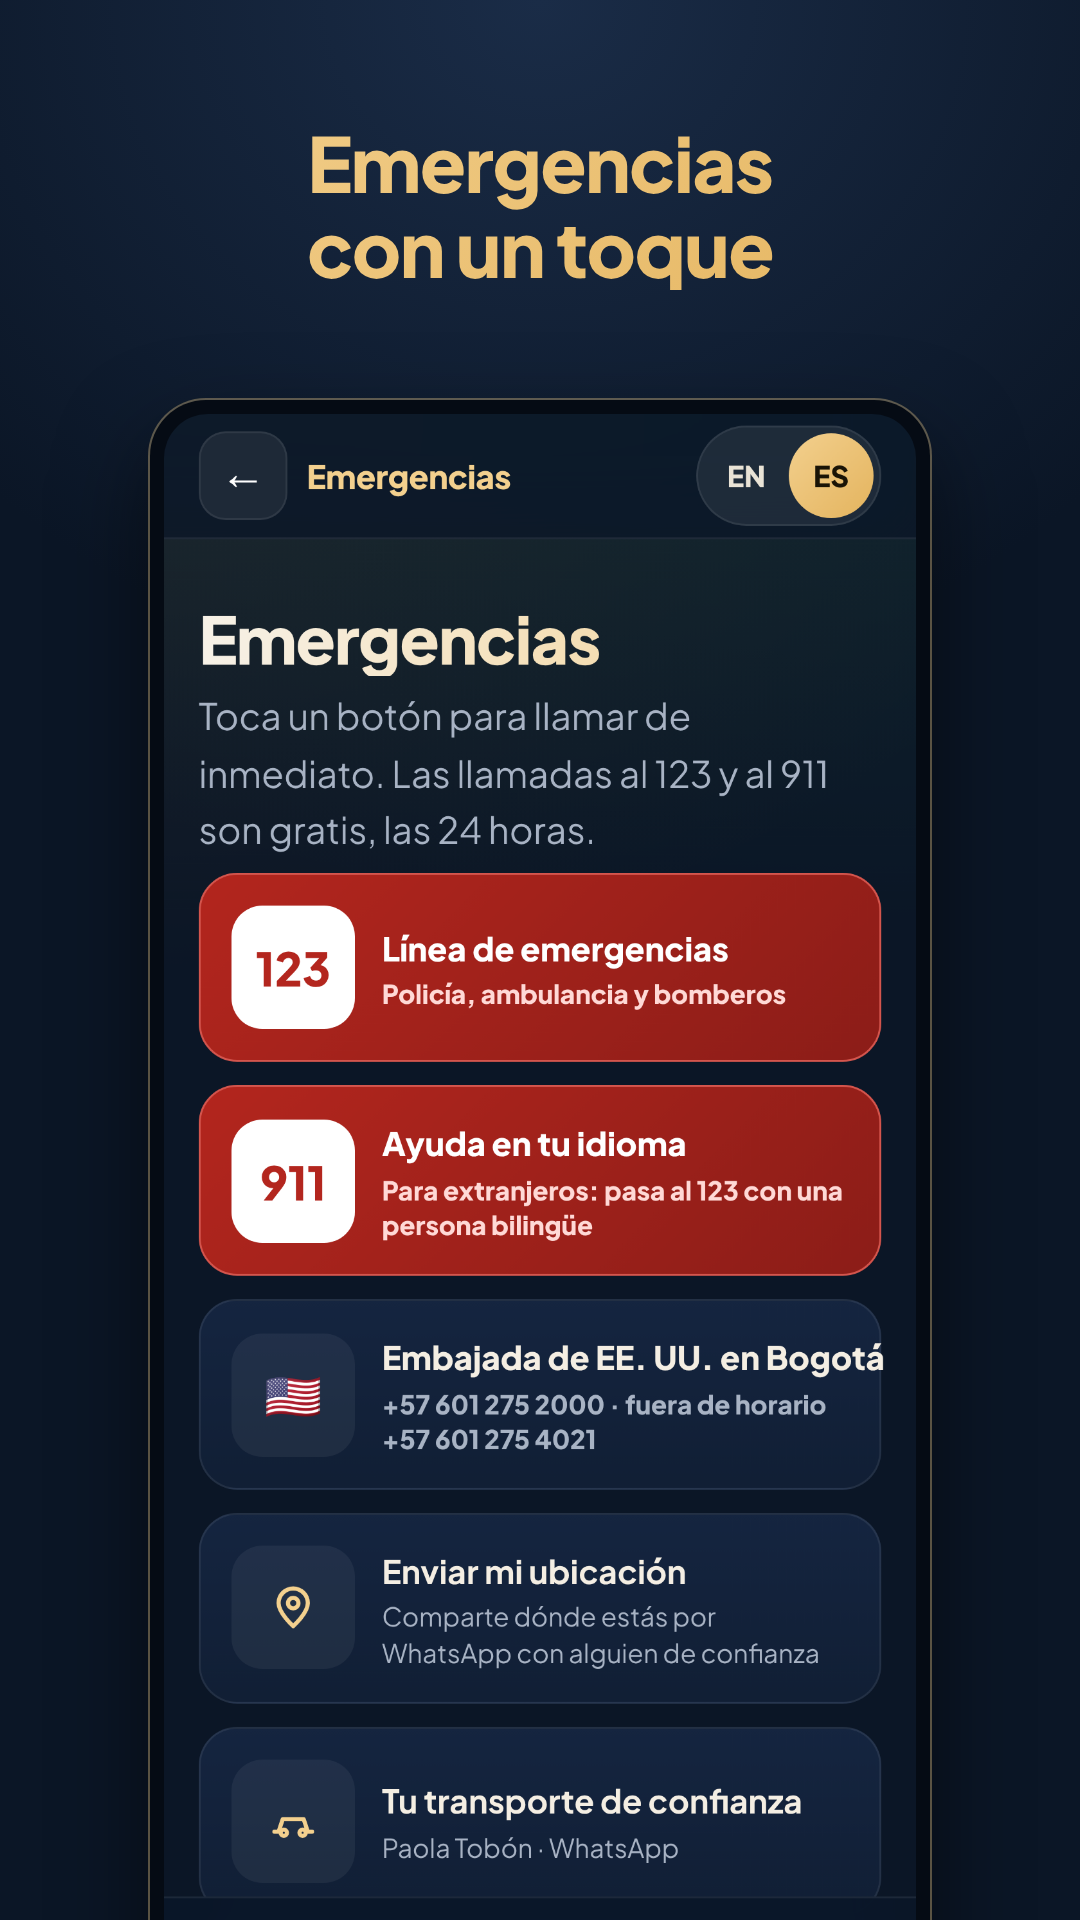
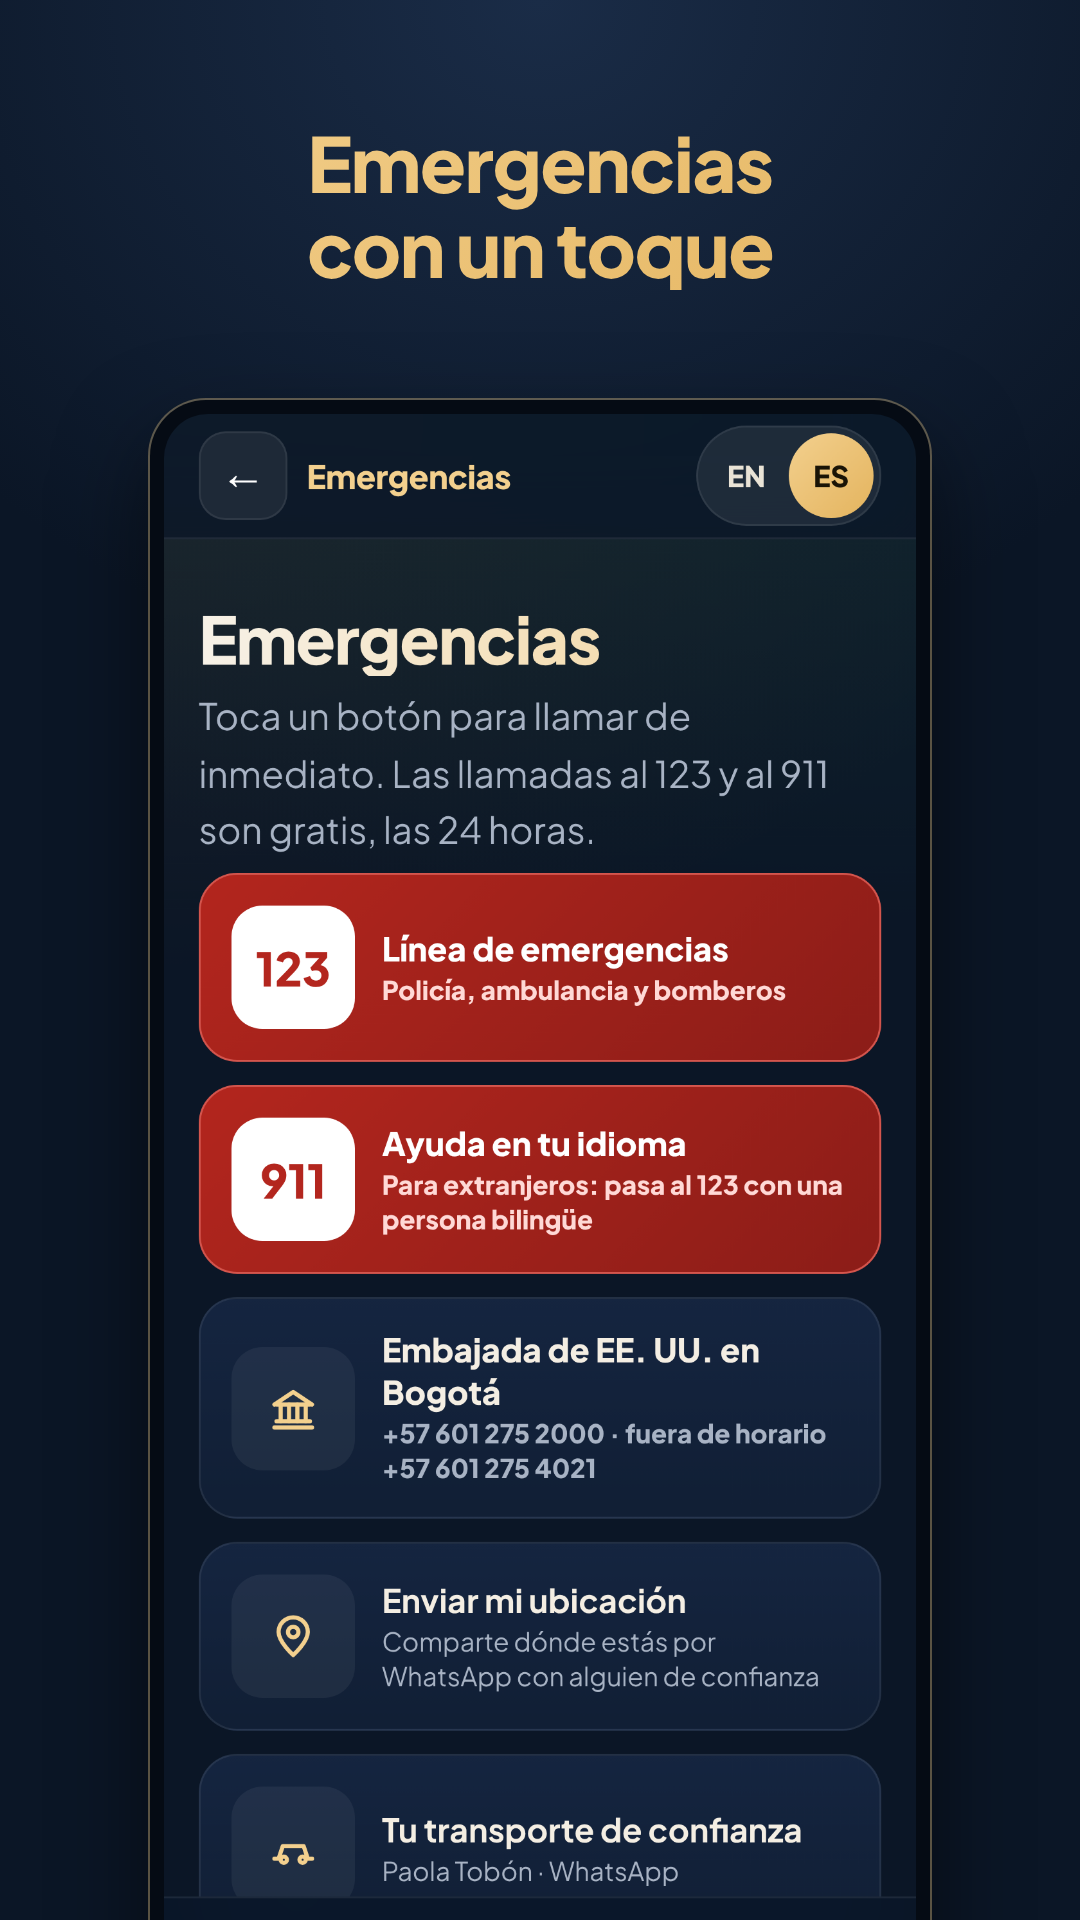
v151: íconos de línea en lugar de emojis (Embajada en SOS y Cerca de mí); capturas en español rehechas (sin publicar)

diff --git a/app/index.html b/app/index.html
@@ -534,7 +534,7 @@ html.es-app .js-install{display:none!important}
   <div class="hx-h1"><span class="en">Discover <em>Medellín</em></span><span class="es">Descubre <em>Medellín</em></span></div>
   <label class="hx-search"><input id="hx-q" type="search" autocomplete="off" placeholder="What do you want to see today?" data-ph-en="What do you want to see today?" data-ph-es="¿Qué quieres conocer hoy?"></label>
   <div class="hx-chips">
-    <button class="hx-chip hx-near" data-go="cerca">📍 <span class="en">Near me</span><span class="es">Cerca de mí</span></button>
+    <button class="hx-chip hx-near" data-go="cerca"><svg viewBox="0 0 24 24" width="16" height="16" fill="none" stroke="currentColor" stroke-width="2.2" stroke-linecap="round" stroke-linejoin="round" aria-hidden="true" style="vertical-align:-3px;margin-right:5px"><path d="M12 21s-7-6.2-7-11a7 7 0 0 1 14 0c0 4.8-7 11-7 11z"/><circle cx="12" cy="10" r="2.5"/></svg><span class="en">Near me</span><span class="es">Cerca de mí</span></button>
     <button class="hx-chip" data-hx="must"><span class="en">Must-see</span><span class="es">Imperdibles</span></button>
     <button class="hx-chip en" data-go="frases">Phrases</button>
     <button class="hx-chip" data-go="tours"><span class="en">Tours</span><span class="es">Tours</span></button>
@@ -629,7 +629,7 @@ html.es-app .js-install{display:none!important}
   <p class="en">Tap a button to call right away. Calls to 123 and 911 are free, 24/7.</p><p class="es">Toca un botón para llamar de inmediato. Las llamadas al 123 y al 911 son gratis, las 24 horas.</p></div>
   <a class="sos-btn sos-red" href="tel:123"><b>123</b><span><b><span class="en">Emergency line</span><span class="es">Línea de emergencias</span></b><small><span class="en">Police, ambulance and firefighters</span><span class="es">Policía, ambulancia y bomberos</span></small></span></a>
   <a class="sos-btn sos-red" href="tel:911"><b>911</b><span><b><span class="en">Help in your language</span><span class="es">Ayuda en tu idioma</span></b><small><span class="en">For foreigners: goes to 123 with a bilingual operator</span><span class="es">Para extranjeros: pasa al 123 con una persona bilingüe</span></small></span></a>
-  <a class="sos-btn" href="tel:+576012752000"><b>🇺🇸</b><span><b><span class="en">U.S. Embassy in Bogotá</span><span class="es">Embajada de EE. UU. en Bogotá</span></b><small>+57 601 275 2000 · <span class="en">after hours</span><span class="es">fuera de horario</span> +57 601 275 4021</small></span></a>
+  <a class="sos-btn" href="tel:+576012752000"><b><svg viewBox="0 0 24 24" width="26" height="26" fill="none" stroke="currentColor" stroke-width="2" stroke-linecap="round" stroke-linejoin="round" aria-hidden="true"><path d="M3 10 12 4l9 6"/><path d="M4 10h16"/><path d="M6 10v8"/><path d="M10 10v8"/><path d="M14 10v8"/><path d="M18 10v8"/><path d="M3 21h18"/><path d="M4 18h16"/></svg></b><span><b><span class="en">U.S. Embassy in Bogotá</span><span class="es">Embajada de EE. UU. en Bogotá</span></b><small>+57 601 275 2000 · <span class="en">after hours</span><span class="es">fuera de horario</span> +57 601 275 4021</small></span></a>
   <button class="sos-btn sos-loc" type="button" id="sos-loc"><b><svg viewBox="0 0 24 24" width="26" height="26" fill="none" stroke="currentColor" stroke-width="2" stroke-linecap="round" stroke-linejoin="round"><path d="M12 21s-7-6.2-7-11a7 7 0 0 1 14 0c0 4.8-7 11-7 11z"/><circle cx="12" cy="10" r="2.5"/></svg></b><span><b><span class="en">Send my location</span><span class="es">Enviar mi ubicación</span></b><small id="sos-loc-msg"><span class="en">Share where you are by WhatsApp with someone you trust</span><span class="es">Comparte dónde estás por WhatsApp con alguien de confianza</span></small></span></button>
   <a class="sos-btn" href="https://wa.me/573194635142" target="_blank" rel="noopener"><b><svg viewBox="0 0 24 24" width="26" height="26" fill="none" stroke="currentColor" stroke-width="2" stroke-linecap="round" stroke-linejoin="round"><path d="M3 17h2l2-6h10l2 6h2"/><circle cx="7.5" cy="17.5" r="1.5"/><circle cx="16.5" cy="17.5" r="1.5"/></svg></b><span><b><span class="en">Your trusted transportation</span><span class="es">Tu transporte de confianza</span></b><small><span class="en">Paola Tobón · WhatsApp</span><span class="es">Paola Tobón · WhatsApp</span></small></span></a>
   <div class="box"><h3 class="en">What to say when you call</h3><h3 class="es">Qué decir cuando llames</h3>

diff --git a/app/sw.js b/app/sw.js
@@ -1,5 +1,5 @@
 // Cambie este número cada vez que publique una versión nueva.
-const VERSION = 'medellin-v150';
+const VERSION = 'medellin-v151';
 const BASE = VERSION + '-base';
 const FOTOS = VERSION + '-fotos';
 const FILES = ['./', './index.html', './manifest.json', './icon.svg', './portada.jpg', './apple-touch-icon.png', './icon-192.png', './icon-512.png'];

diff --git a/CLAUDE.md b/CLAUDE.md
@@ -59,6 +59,12 @@ Cambios de la v150 (sobre la v149):
 
 Versión anterior: v149 (`medellin-lock-1795281462731`).
 
+**Lista para el próximo .zip de Netlify (v151, sin publicar):**
+- Sin emojis en la app: la bandera de EE. UU. del botón de la Embajada (SOS) es ahora un ícono de línea (edificio con
+  columnas) y el 📍 del botón "Cerca de mí" del menú es un pin de línea, del mismo estilo que los demás íconos.
+- Quedan solo símbolos de texto: ♡/♥ (favoritos) y las flechas ← → de navegación. El 💛 del mensaje prellenado de
+  WhatsApp a Paola no se ve en la app (va dentro del mensaje).
+
 Cambios de la v149 (sobre la v147):
 - **Candado rediseñado** con el estilo de la app: Plus Jakarta Sans, azul noche #0B1626 y dorado, ícono arriba,
   sin cursiva, sin "¡Qué chimba, parce!", sin emojis ni flechas, tarjeta crema con letra oscura y grande,

diff --git a/LEEME-PRIMERO.md b/LEEME-PRIMERO.md
@@ -59,6 +59,12 @@ Cambios de la v150 (sobre la v149):
 
 Versión anterior: v149 (`medellin-lock-1795281462731`).
 
+**Lista para el próximo .zip de Netlify (v151, sin publicar):**
+- Sin emojis en la app: la bandera de EE. UU. del botón de la Embajada (SOS) es ahora un ícono de línea (edificio con
+  columnas) y el 📍 del botón "Cerca de mí" del menú es un pin de línea, del mismo estilo que los demás íconos.
+- Quedan solo símbolos de texto: ♡/♥ (favoritos) y las flechas ← → de navegación. El 💛 del mensaje prellenado de
+  WhatsApp a Paola no se ve en la app (va dentro del mensaje).
+
 Cambios de la v149 (sobre la v147):
 - **Candado rediseñado** con el estilo de la app: Plus Jakarta Sans, azul noche #0B1626 y dorado, ícono arriba,
   sin cursiva, sin "¡Qué chimba, parce!", sin emojis ni flechas, tarjeta crema con letra oscura y grande,
